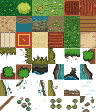
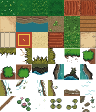
Grass: one consistent base, lighter decals (no checkerboard)

diff --git a/tools/gen_art.py b/tools/gen_art.py
@@ -244,10 +244,10 @@ def _pack_overlay(name, im, rnd):
     """Ground tiles use owner pack art; decals are composited on top of the procedural base."""
     rules = {
         # name: (opaque base group or None, decal groups, decal count)
-        "grass_a": ("grass_pack", ["grass_pack"], 2),
-        "grass_b": ("grass_pack", ["grass_pack", "grass_variation"], 2),
-        "grass_c": (None, ["grass_variation"], 1),
-        "grass_flower": (None, ["grass_pack"], 1),
+        "grass_a": ("grass_pack", ["grass_pack"], 1),
+        "grass_b": ("grass_pack", ["grass_pack"], 1),
+        "grass_c": ("grass_pack", ["grass_pack"], 1),
+        "grass_flower": ("grass_pack", ["grass_pack"], 1),
         "grass_dark": (None, ["grass_pack"], 2),
         "soil_dry": (None, ["soil"], 2),
         "soil_tilled": (None, ["soil"], 3),
